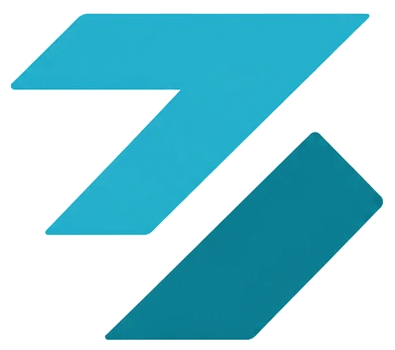
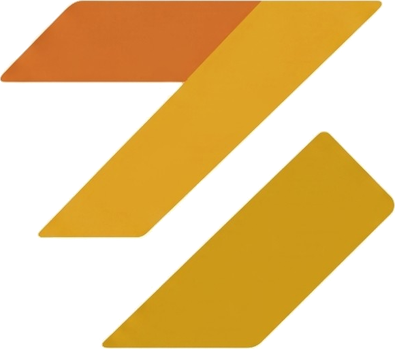
部門ごとのロゴ：EC（黄・緑）とAI Works（ピンク）。ECサイトをロゴの色に合わせる。設計は「ZAZOU 設計Works」に名称変更、資格名を修正
Claude-Session: https://claude.ai/code/session_01FoXnQUnWFo5bCHCE2XBacV

diff --git a/zazou-works-ec/index.html b/zazou-works-ec/index.html
@@ -96,12 +96,47 @@ table.co th{width:9em;color:var(--sub);font-weight:500}
 .contact .item p{margin:0 0 12px;color:var(--sub);font-size:14px}
 .mail{font-size:16px;word-break:break-all}
 footer{padding:28px 0;color:var(--sub);font-size:13px;text-align:center}
+
+/* ロゴに合わせた見た目（深い緑・黄色・オレンジ、あたたかい白、斜めの形） */
+:root{--ink:#1b241f;--sub:#57635c;--line:#e6e2d4;--bg:#fdfbf5;--soft:#f6f1e2;--main:#264d3d;--accent:#e0a526;--accent2:#d2691e;--on-main:#ffffff;--dark:#264d3d}
+@media (prefers-color-scheme: dark){:root{--ink:#eef2ec;--sub:#aab8ae;--line:#2c3a32;--bg:#101613;--soft:#17201b;--main:#8fcaa9;--accent:#e9b63f;--accent2:#e58a45;--on-main:#101613;--dark:#e9b63f}}
+body{font-feature-settings:"palt"}
+.brand{font-weight:800;letter-spacing:.06em}
+.hero{position:relative;overflow:hidden;background:var(--bg)}
+.hero::before{content:"";position:absolute;right:-4%;top:-20%;width:44%;height:140%;background:var(--accent);opacity:.16;clip-path:polygon(38% 0,100% 0,62% 100%,0 100%);pointer-events:none}
+.hero::after{content:"";position:absolute;right:33%;top:-20%;width:12%;height:140%;background:var(--accent2);opacity:.12;clip-path:polygon(38% 0,100% 0,62% 100%,0 100%);pointer-events:none}
+.hero .wrap{position:relative;z-index:1}
+.hero h1{font-weight:800;letter-spacing:.01em;line-height:1.3;color:var(--main)}
+.hero figure{border-radius:2px;border-color:var(--main);box-shadow:14px 14px 0 color-mix(in srgb,var(--accent) 45%,transparent)}
+.cta{border-radius:0;background:var(--dark);color:var(--bg);padding:12px 26px;clip-path:polygon(12px 0,100% 0,calc(100% - 12px) 100%,0 100%);letter-spacing:.04em;transition:background .15s}
+.cta:hover{background:var(--accent2);color:#fff}
+.cta.ghost{clip-path:none;border:2px solid var(--dark);color:var(--dark);background:transparent;padding:10px 22px}
+.cta.ghost:hover{background:var(--dark);color:var(--bg)}
+header.top .cta{background:var(--accent);color:#1b241f}
+header.top .cta:hover{background:var(--accent2);color:#fff}
+.badges li{border-radius:0;border-color:var(--main);color:var(--main);font-weight:500;background:transparent}
+section h2{font-weight:800;letter-spacing:.02em;color:var(--main)}
+section h2::before{width:20px;height:.82em;border-radius:0;margin-right:12px;vertical-align:-1px;background:linear-gradient(90deg,var(--accent2) 0 45%,var(--accent) 45% 100%);clip-path:polygon(45% 0,100% 0,55% 100%,0 100%)}
+.card,.work,.contact .item,ol.flow li{border-radius:2px}
+.card{border-top:3px solid var(--accent);background:#fff}
+.card h3{color:var(--main);font-weight:800}
+.formats div{border-radius:0;border-left:3px solid var(--accent)}
+.work{background:#fff;transition:box-shadow .15s,transform .15s}
+.work:hover{box-shadow:8px 8px 0 color-mix(in srgb,var(--accent) 40%,transparent);transform:translate(-2px,-2px)}
+.work h3{font-weight:800}
+.work a.pdf::after{content:" →"}
+.tags li{border-radius:0}
+ol.flow li{background:#fff}
+ol.flow li::before{border-radius:0;background:var(--accent);color:#1b241f;width:34px;clip-path:polygon(8px 0,100% 0,calc(100% - 8px) 100%,0 100%)}
+.contact .item{background:#fff}
+footer{border-top:3px solid var(--main)}
+@media (prefers-color-scheme: dark){.card,.work,ol.flow li,.contact .item{background:var(--soft)}}
 </style>
 </head>
 <body>
 <header class="top"><div class="wrap">
   <a class="brand" href="#"><img src="img/mark.png" alt=""><span>ZAZOU Works EC<small>ZAZOU株式会社</small></span></a>
-  <nav class="menu" aria-label="ページ内"><a href="../zazou-works/">ZAZOU Works トップ</a><a href="#service">お受けする仕事</a><a href="#results">自社での実績</a><a href="#works">資料の見本</a><a href="#flow">進め方</a><a href="#company">会社概要</a></nav>
+  <nav class="menu" aria-label="ページ内"><a href="#service">お受けする仕事</a><a href="#results">自社での実績</a><a href="#works">資料の見本</a><a href="#flow">進め方</a><a href="#company">会社概要</a></nav>
   <a class="cta" href="#contact">ご相談</a>
 </div></header>
 
@@ -202,6 +237,6 @@ footer{padding:28px 0;color:var(--sub);font-size:13px;text-align:center}
 </div></section>
 </main>
 
-<footer><div class="wrap"><img src="img/logo.png" width="1055" height="750" alt="ZAZOU Works" style="width:110px;height:auto;display:block;margin:0 auto 10px">© ZAZOU株式会社　ZAZOU Works EC<br><a href="../zazou-works/">ZAZOU Works（全部門の入り口）</a></div></footer>
+<footer><div class="wrap"><img src="img/logo.png" width="1055" height="750" alt="ZAZOU Works" style="width:110px;height:auto;display:block;margin:0 auto 10px">© ZAZOU株式会社　ZAZOU Works EC</div></footer>
 </body>
 </html>

diff --git a/zazou-works/index.html b/zazou-works/index.html
@@ -122,7 +122,7 @@ footer{padding:28px 0;color:var(--sub);font-size:13px;text-align:center}
     <p class="lead">ZAZOU Works は、ZAZOU株式会社の4つの部門の入り口です。図面の作成、ネットショップの運営、業務の仕組みづくりを、在宅・全国対応でお受けします。ご相談の窓口は1つ、どの部門のご用件でも同じ LINE・メールで承ります。</p>
     <div class="btns"><a class="cta" href="#depts">部門を見る</a><a class="cta ghost" href="#contact">ご相談はこちら</a></div>
   </div>
-  <figure><img src="img/t_sekkei.webp" width="960" height="600" alt="ZAZOU Works 設計のサイト"></figure>
+  <figure><img src="img/t_sekkei.webp" width="960" height="600" alt="ZAZOU 設計Worksのサイト"></figure>
 </div></div>
 
 <main>
@@ -130,7 +130,7 @@ footer{padding:28px 0;color:var(--sub);font-size:13px;text-align:center}
   <h2>4つの部門</h2>
   <p class="sec-lead">ご用件に合わせて、各部門のサイトをご覧ください。</p>
   <div class="depts">
-    <a class="dept" href="https://takmat21.github.io/zazou-works-sekkei/"><img src="img/t_sekkei.webp" width="960" height="600" alt="ZAZOU Works 設計のサイト" loading="lazy"><div class="body"><span class="kind">設計</span><h3>ZAZOU Works 設計</h3><p>機械の部品図・組立図、建築の平面図・立面図・断面図、設備図の拾い出しまで。図面の作成・修正・トレースを、DXF・JWW・PDFでお渡しします。</p><span class="go">サイトを見る →</span></div></a>
+    <a class="dept" href="https://takmat21.github.io/zazou-works-sekkei/"><img src="img/t_sekkei.webp" width="960" height="600" alt="ZAZOU 設計Worksのサイト" loading="lazy"><div class="body"><span class="kind">設計</span><h3>ZAZOU 設計Works</h3><p>機械の部品図・組立図、建築の平面図・立面図・断面図、設備図の拾い出しまで。図面の作成・修正・トレースを、DXF・JWW・PDFでお渡しします。</p><span class="go">サイトを見る →</span></div></a>
     <a class="dept" href="https://takmat21.github.io/zazou-works-ec/"><img src="img/t_ec.webp" width="960" height="600" alt="ZAZOU Works ECのサイト" loading="lazy"><div class="body"><span class="kind">EC</span><h3>ZAZOU Works EC</h3><p>Amazon・Yahoo!ショッピング・BASE の運営代行、出荷・送り状づくりの自動化、商品ページ・撮影・広告、ネットショップの立ち上げのご相談。</p><span class="go">サイトを見る →</span></div></a>
     <a class="dept" href="https://takmat21.github.io/ai/"><img src="img/t_ai.webp" width="960" height="600" alt="ZAZOU AI Worksのサイト" loading="lazy"><div class="body"><span class="kind">AI導入支援</span><h3>ZAZOU AI Works</h3><p>自社の業務でAIの仕組みを毎日動かしている設計者が、御社の業務を1つずつAIで仕組みにします。手順の書き出しから、人が確かめる所まで。</p><span class="go">サイトを見る →</span></div></a>
     <a class="dept" href="https://takmat21.github.io/"><img src="img/t_lab.webp" width="960" height="600" alt="ZAZOU Labのサイト" loading="lazy"><div class="body"><span class="kind">研究所</span><h3>ZAZOU Lab</h3><p>実績と、試作・研究の途中経過を公開している場所です。業務の仕組み、道具、論文、毎朝のニュースを載せています。</p><span class="go">サイトを見る →</span></div></a>
@@ -162,7 +162,7 @@ footer{padding:28px 0;color:var(--sub);font-size:13px;text-align:center}
     <tr><th>資本金</th><td>300万円</td></tr>
     <tr><th>所在地</th><td>滋賀県蒲生郡日野町</td></tr>
     <tr><th>事業内容</th><td>EC事業（Amazon・Yahoo!ショッピング・BASE での販売）／設計（図面・3Dデータの作成）／ECの運営支援／AI・DX支援</td></tr>
-    <tr><th>部門</th><td>ZAZOU Works 設計／ZAZOU Works EC／ZAZOU AI Works／ZAZOU Lab</td></tr>
+    <tr><th>部門</th><td>ZAZOU 設計Works／ZAZOU Works EC／ZAZOU AI Works／ZAZOU Lab</td></tr>
     <tr><th>対応地域</th><td>全国（在宅・オンラインで対応）</td></tr>
     <tr><th>お問い合わせ</th><td>LINE「ZAZOU Works」／メール matsumura.takashi@zazoucorp.com</td></tr>
   </table>

diff --git a/zazou-works-sekkei/index.html b/zazou-works-sekkei/index.html
@@ -3,11 +3,11 @@
 <head>
 <meta charset="utf-8">
 <meta name="viewport" content="width=device-width,initial-scale=1">
-<title>ZAZOU Works 設計｜図面の作成・修正・トレース</title>
+<title>ZAZOU 設計Works｜図面の作成・修正・トレース</title>
 <meta name="description" content="機械の部品図・組立図、建築の平面図・立面図・断面図、設備図の拾い出しまで。図面の作成・修正・トレースを在宅でお受けします。DXF・JWW・PDFで納品。">
 <link rel="icon" href="img/favicon.png" type="image/png">
 <link rel="canonical" href="https://takmat21.github.io/zazou-works-sekkei/">
-<meta property="og:title" content="ZAZOU Works 設計｜図面の作成・修正・トレース">
+<meta property="og:title" content="ZAZOU 設計Works｜図面の作成・修正・トレース">
 <meta property="og:type" content="website">
 <meta property="og:url" content="https://takmat21.github.io/zazou-works-sekkei/">
 <meta property="og:image" content="https://takmat21.github.io/zazou-works-sekkei/img/ph_hero.webp">
@@ -158,7 +158,7 @@ footer{border-top:3px solid var(--ink)}
 </head>
 <body>
 <header class="top"><div class="wrap">
-  <a class="brand" href="#"><img src="img/mark.png" alt=""><span>ZAZOU Works 設計<small>ZAZOU株式会社</small></span></a>
+  <a class="brand" href="#"><img src="img/mark.png" alt=""><span>ZAZOU 設計Works<small>ZAZOU株式会社</small></span></a>
   <nav class="menu" aria-label="ページ内"><a href="#service">お受けする仕事</a><a href="#works">図面の見本</a><a href="#profile">担当者</a><a href="#flow">進め方</a><a href="#company">会社概要</a></nav>
   <a class="cta" href="#contact">ご相談</a>
 </div></header>
@@ -220,7 +220,7 @@ footer{border-top:3px solid var(--ink)}
       <dt>2011–2012</dt><dd>パナソニック　台湾拠点で縦型洗濯機の機種開発リーダー</dd>
       <dt>2014–2020</dt><dd>パナソニック　ロボット掃除機の駆動部・サイドブラシの設計</dd>
       <dt>2020–</dt><dd>ZAZOU株式会社を設立</dd>
-      <dt>資格</dt><dd>CATIA V5 アセンブリーデザインスペシャリスト／CATIA V5 サーフェスデザインスペシャリスト／パナソニック3D CAD検定1級</dd>
+      <dt>資格</dt><dd>CATIA V5 アセンブリーデザインスペシャリスト／CATIA V5 サーフェスデザインスペシャリスト／パナソニック CAD検定1級</dd>
     </dl>
   </div>
 </div></section>
@@ -241,7 +241,7 @@ footer{border-top:3px solid var(--ink)}
   <h2>会社概要</h2>
   <table class="co">
     <tr><th>会社名</th><td>ZAZOU株式会社</td></tr>
-    <tr><th>部門</th><td>ZAZOU Works 設計</td></tr>
+    <tr><th>部門</th><td>ZAZOU 設計Works</td></tr>
     <tr><th>代表</th><td>代表取締役 松村 貴士</td></tr>
     <tr><th>設立</th><td>2020年6月</td></tr>
     <tr><th>所在地</th><td>滋賀県蒲生郡日野町</td></tr>
@@ -259,6 +259,6 @@ footer{border-top:3px solid var(--ink)}
 </div></section>
 </main>
 
-<footer><div class="wrap"><img src="img/logo.png" width="1055" height="750" alt="ZAZOU Works" style="width:110px;height:auto;display:block;margin:0 auto 10px">© ZAZOU株式会社　ZAZOU Works 設計<br><span style="font-size:12px">写真はイメージです。図面と立体の見本は、当方で作成したものです。</span></div></footer>
+<footer><div class="wrap"><img src="img/logo.png" width="1055" height="750" alt="ZAZOU Works" style="width:110px;height:auto;display:block;margin:0 auto 10px">© ZAZOU株式会社　ZAZOU 設計Works<br><span style="font-size:12px">写真はイメージです。図面と立体の見本は、当方で作成したものです。</span></div></footer>
 </body>
 </html>

diff --git a/ai/cases/index.html b/ai/cases/index.html
@@ -27,7 +27,7 @@
 <body>
 <a class="skip" href="#main">本文へ</a>
 <header class="hd"><div class="c">
-  <a class="brand" href="../"><b>ZAZOU AI Works</b><small>ZAZOU株式会社 ／ AIで業務を仕組み化する</small></a>
+  <a class="brand" href="../"><img src="../img/zw-mark.png" alt="" width="395" height="350" class="zw-mark"><b>ZAZOU AI Works</b><small>ZAZOU株式会社 ／ AIで業務を仕組み化する</small></a>
   <button class="menu-btn" type="button" aria-expanded="false" aria-controls="gnav"><span class="bars" aria-hidden="true"></span>メニュー</button>
   <nav class="gnav" id="gnav" aria-label="サイト内"><ul><li><a href="../service/">サービス</a></li><li><a href="../price/">料金</a></li><li><a href="../cases/" aria-current="page">自社の仕組み</a></li><li><a href="../company/">会社概要</a></li><li><a href="../faq/">よくある質問</a></li><li><a href="../contact/">お問い合わせ</a></li></ul></nav>
   <a class="hd-cta" href="../contact/">無料で相談する</a>

diff --git a/ai/company/index.html b/ai/company/index.html
@@ -26,7 +26,7 @@
 <body>
 <a class="skip" href="#main">本文へ</a>
 <header class="hd"><div class="c">
-  <a class="brand" href="../"><b>ZAZOU AI Works</b><small>ZAZOU株式会社 ／ AIで業務を仕組み化する</small></a>
+  <a class="brand" href="../"><img src="../img/zw-mark.png" alt="" width="395" height="350" class="zw-mark"><b>ZAZOU AI Works</b><small>ZAZOU株式会社 ／ AIで業務を仕組み化する</small></a>
   <button class="menu-btn" type="button" aria-expanded="false" aria-controls="gnav"><span class="bars" aria-hidden="true"></span>メニュー</button>
   <nav class="gnav" id="gnav" aria-label="サイト内"><ul><li><a href="../service/">サービス</a></li><li><a href="../price/">料金</a></li><li><a href="../cases/">自社の仕組み</a></li><li><a href="../company/" aria-current="page">会社概要</a></li><li><a href="../faq/">よくある質問</a></li><li><a href="../contact/">お問い合わせ</a></li></ul></nav>
   <a class="hd-cta" href="../contact/">無料で相談する</a>

diff --git a/ai/contact/index.html b/ai/contact/index.html
@@ -26,7 +26,7 @@
 <body>
 <a class="skip" href="#main">本文へ</a>
 <header class="hd"><div class="c">
-  <a class="brand" href="../"><b>ZAZOU AI Works</b><small>ZAZOU株式会社 ／ AIで業務を仕組み化する</small></a>
+  <a class="brand" href="../"><img src="../img/zw-mark.png" alt="" width="395" height="350" class="zw-mark"><b>ZAZOU AI Works</b><small>ZAZOU株式会社 ／ AIで業務を仕組み化する</small></a>
   <button class="menu-btn" type="button" aria-expanded="false" aria-controls="gnav"><span class="bars" aria-hidden="true"></span>メニュー</button>
   <nav class="gnav" id="gnav" aria-label="サイト内"><ul><li><a href="../service/">サービス</a></li><li><a href="../price/">料金</a></li><li><a href="../cases/">自社の仕組み</a></li><li><a href="../company/">会社概要</a></li><li><a href="../faq/">よくある質問</a></li><li><a href="../contact/" aria-current="page">お問い合わせ</a></li></ul></nav>
   <a class="hd-cta" href="../contact/">無料で相談する</a>

diff --git a/ai/faq/index.html b/ai/faq/index.html
@@ -26,7 +26,7 @@
 <body>
 <a class="skip" href="#main">本文へ</a>
 <header class="hd"><div class="c">
-  <a class="brand" href="../"><b>ZAZOU AI Works</b><small>ZAZOU株式会社 ／ AIで業務を仕組み化する</small></a>
+  <a class="brand" href="../"><img src="../img/zw-mark.png" alt="" width="395" height="350" class="zw-mark"><b>ZAZOU AI Works</b><small>ZAZOU株式会社 ／ AIで業務を仕組み化する</small></a>
   <button class="menu-btn" type="button" aria-expanded="false" aria-controls="gnav"><span class="bars" aria-hidden="true"></span>メニュー</button>
   <nav class="gnav" id="gnav" aria-label="サイト内"><ul><li><a href="../service/">サービス</a></li><li><a href="../price/">料金</a></li><li><a href="../cases/">自社の仕組み</a></li><li><a href="../company/">会社概要</a></li><li><a href="../faq/" aria-current="page">よくある質問</a></li><li><a href="../contact/">お問い合わせ</a></li></ul></nav>
   <a class="hd-cta" href="../contact/">無料で相談する</a>

diff --git a/ai/price/index.html b/ai/price/index.html
@@ -26,7 +26,7 @@
 <body>
 <a class="skip" href="#main">本文へ</a>
 <header class="hd"><div class="c">
-  <a class="brand" href="../"><b>ZAZOU AI Works</b><small>ZAZOU株式会社 ／ AIで業務を仕組み化する</small></a>
+  <a class="brand" href="../"><img src="../img/zw-mark.png" alt="" width="395" height="350" class="zw-mark"><b>ZAZOU AI Works</b><small>ZAZOU株式会社 ／ AIで業務を仕組み化する</small></a>
   <button class="menu-btn" type="button" aria-expanded="false" aria-controls="gnav"><span class="bars" aria-hidden="true"></span>メニュー</button>
   <nav class="gnav" id="gnav" aria-label="サイト内"><ul><li><a href="../service/">サービス</a></li><li><a href="../price/" aria-current="page">料金</a></li><li><a href="../cases/">自社の仕組み</a></li><li><a href="../company/">会社概要</a></li><li><a href="../faq/">よくある質問</a></li><li><a href="../contact/">お問い合わせ</a></li></ul></nav>
   <a class="hd-cta" href="../contact/">無料で相談する</a>

diff --git a/ai/service/index.html b/ai/service/index.html
@@ -26,7 +26,7 @@
 <body>
 <a class="skip" href="#main">本文へ</a>
 <header class="hd"><div class="c">
-  <a class="brand" href="../"><b>ZAZOU AI Works</b><small>ZAZOU株式会社 ／ AIで業務を仕組み化する</small></a>
+  <a class="brand" href="../"><img src="../img/zw-mark.png" alt="" width="395" height="350" class="zw-mark"><b>ZAZOU AI Works</b><small>ZAZOU株式会社 ／ AIで業務を仕組み化する</small></a>
   <button class="menu-btn" type="button" aria-expanded="false" aria-controls="gnav"><span class="bars" aria-hidden="true"></span>メニュー</button>
   <nav class="gnav" id="gnav" aria-label="サイト内"><ul><li><a href="../service/" aria-current="page">サービス</a></li><li><a href="../price/">料金</a></li><li><a href="../cases/">自社の仕組み</a></li><li><a href="../company/">会社概要</a></li><li><a href="../faq/">よくある質問</a></li><li><a href="../contact/">お問い合わせ</a></li></ul></nav>
   <a class="hd-cta" href="../contact/">無料で相談する</a>

diff --git a/ai/glossary/index.html b/ai/glossary/index.html
@@ -27,7 +27,7 @@
 <body>
 <a class="skip" href="#main">本文へ</a>
 <header class="hd"><div class="c">
-  <a class="brand" href="../"><b>ZAZOU AI Works</b><small>ZAZOU株式会社 ／ AIで業務を仕組み化する</small></a>
+  <a class="brand" href="../"><img src="../img/zw-mark.png" alt="" width="395" height="350" class="zw-mark"><b>ZAZOU AI Works</b><small>ZAZOU株式会社 ／ AIで業務を仕組み化する</small></a>
   <button class="menu-btn" type="button" aria-expanded="false" aria-controls="gnav"><span class="bars" aria-hidden="true"></span>メニュー</button>
   <nav class="gnav" id="gnav" aria-label="サイト内"><ul><li><a href="../service/">サービス</a></li><li><a href="../price/">料金</a></li><li><a href="../cases/">自社の仕組み</a></li><li><a href="../company/">会社概要</a></li><li><a href="../faq/">よくある質問</a></li><li><a href="../contact/">お問い合わせ</a></li></ul></nav>
   <a class="hd-cta" href="../contact/">無料で相談する</a>

diff --git a/ai/security/index.html b/ai/security/index.html
@@ -26,7 +26,7 @@
 <body>
 <a class="skip" href="#main">本文へ</a>
 <header class="hd"><div class="c">
-  <a class="brand" href="../"><b>ZAZOU AI Works</b><small>ZAZOU株式会社 ／ AIで業務を仕組み化する</small></a>
+  <a class="brand" href="../"><img src="../img/zw-mark.png" alt="" width="395" height="350" class="zw-mark"><b>ZAZOU AI Works</b><small>ZAZOU株式会社 ／ AIで業務を仕組み化する</small></a>
   <button class="menu-btn" type="button" aria-expanded="false" aria-controls="gnav"><span class="bars" aria-hidden="true"></span>メニュー</button>
   <nav class="gnav" id="gnav" aria-label="サイト内"><ul><li><a href="../service/">サービス</a></li><li><a href="../price/">料金</a></li><li><a href="../cases/">自社の仕組み</a></li><li><a href="../company/">会社概要</a></li><li><a href="../faq/">よくある質問</a></li><li><a href="../contact/">お問い合わせ</a></li></ul></nav>
   <a class="hd-cta" href="../contact/">無料で相談する</a>

diff --git a/ai/index.html b/ai/index.html
@@ -28,7 +28,7 @@
 <body>
 <a class="skip" href="#main">本文へ</a>
 <header class="hd"><div class="c">
-  <a class="brand" href="./"><b>ZAZOU AI Works</b><small>ZAZOU株式会社 ／ AIで業務を仕組み化する</small></a>
+  <a class="brand" href="./"><img src="img/zw-mark.png" alt="" width="395" height="350" class="zw-mark"><b>ZAZOU AI Works</b><small>ZAZOU株式会社 ／ AIで業務を仕組み化する</small></a>
   <button class="menu-btn" type="button" aria-expanded="false" aria-controls="gnav"><span class="bars" aria-hidden="true"></span>メニュー</button>
   <nav class="gnav" id="gnav" aria-label="サイト内"><ul><li><a href="service/">サービス</a></li><li><a href="price/">料金</a></li><li><a href="cases/">自社の仕組み</a></li><li><a href="company/">会社概要</a></li><li><a href="faq/">よくある質問</a></li><li><a href="contact/">お問い合わせ</a></li></ul></nav>
   <a class="hd-cta" href="contact/">無料で相談する</a>
